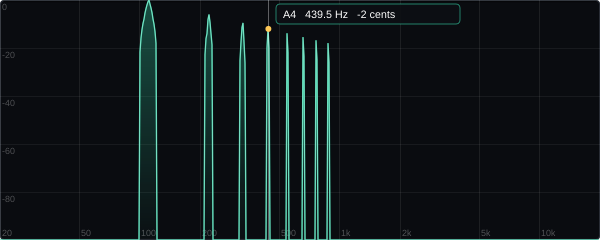
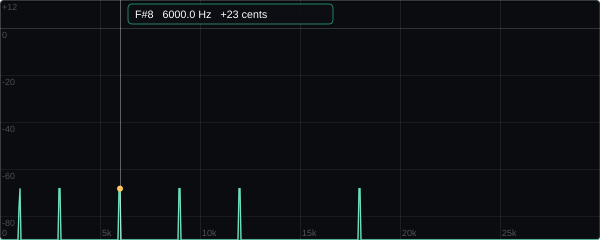
spectrum: linear 0-30 kHz axis and +12 dB (dBFS) top
- dB scale now uses a fixed 0 dBFS reference (= fftSize/4) with +12 dB headroom at
  the top; grid at +12/0/-20/-40/-60/-80 (0 dB brighter).
- Frequency axis is linear 0 Hz..30 kHz (log can't represent 0 Hz); grid every 5k.
- rebuildColumns/hover use the fixed reference; removed the running-peak norm.
- RenderUI hover demo updated for the linear axis.

diff --git a/Source/SpectrumAnalyzer.cpp b/Source/SpectrumAnalyzer.cpp
@@ -38,16 +38,14 @@ void SpectrumDisplay::resized()
 
 float SpectrumDisplay::freqToX (float hz) const noexcept
 {
-    const float lo = std::log (minFreq), hi = std::log (maxFreq);
-    const float f  = juce::jlimit (minFreq, maxFreq, hz);
-    return (float) getWidth() * (std::log (f) - lo) / (hi - lo);
+    const float f = juce::jlimit (minFreq, maxFreq, hz);
+    return (float) getWidth() * (f - minFreq) / (maxFreq - minFreq);
 }
 
 float SpectrumDisplay::xToFreq (float x) const noexcept
 {
-    const float lo = std::log (minFreq), hi = std::log (maxFreq);
-    const float t  = juce::jlimit (0.0f, 1.0f, x / (float) juce::jmax (1, getWidth()));
-    return std::exp (lo + t * (hi - lo));
+    const float t = juce::jlimit (0.0f, 1.0f, x / (float) juce::jmax (1, getWidth()));
+    return minFreq + t * (maxFreq - minFreq);
 }
 
 float SpectrumDisplay::dbToY (float db) const noexcept
@@ -71,25 +69,15 @@ void SpectrumDisplay::rebuildColumns()
     const int   numBins = (int) mags.size();
     const float binHz   = (float) (sampleRate / (2.0 * numBins));
 
-    // Running normalisation reference: instant attack, slow release, so the trace
-    // fills the view when there's signal and sinks to the floor on silence.
-    float gpeak = 1.0e-9f;
-    for (int k = 1; k < numBins; ++k)
-    {
-        const float f = k * binHz;
-        if (f >= minFreq && f <= maxFreq)
-            gpeak = juce::jmax (gpeak, mags[(size_t) k]);
-    }
-    refPeak = gpeak > refPeak ? gpeak : (refPeak * 0.9f + gpeak * 0.1f);
-    refPeak = juce::jmax (refPeak, 1.0e-9f);
+    // Fixed 0 dBFS reference: a full-scale sine peaks at ~fftSize/4 = numBins/2.
+    dbRef = juce::jmax (1.0f, (float) numBins * 0.5f);
 
-    const float logLo = std::log (minFreq);
-    const float logHi = std::log (maxFreq);
+    const float df = (maxFreq - minFreq) / (float) w;
 
     for (int x = 0; x < w; ++x)
     {
-        const float fLo = std::exp (logLo + (logHi - logLo) * ((float) x)       / (float) w);
-        const float fHi = std::exp (logLo + (logHi - logLo) * ((float) (x + 1)) / (float) w);
+        const float fLo = minFreq + df * (float) x;
+        const float fHi = minFreq + df * (float) (x + 1);
 
         const int kLo = (int) std::ceil  (fLo / binHz);
         const int kHi = (int) std::floor (fHi / binHz);
@@ -103,8 +91,8 @@ void SpectrumDisplay::rebuildColumns()
         }
         else
         {
-            // Column narrower than the bin spacing (low end): interpolate.
-            const float fc = std::sqrt (fLo * fHi);
+            // Column narrower than the bin spacing: interpolate between bins.
+            const float fc = 0.5f * (fLo + fHi);
             const float bf = fc / binHz;
             int   k0 = juce::jlimit (1, numBins - 2, (int) bf);
             const float fr = juce::jlimit (0.0f, 1.0f, bf - (float) k0);
@@ -131,27 +119,26 @@ void SpectrumDisplay::paint (juce::Graphics& g)
 
     drawScreen (g, bounds);
 
-    // ---- dB grid (horizontal) ---------------------------------------------------
+    // ---- dB grid (horizontal), dBFS with +12 at the top ------------------------
     g.setFont (10.0f);
-    for (int db = 0; db >= -80; db -= 20)
+    for (int db : { 12, 0, -20, -40, -60, -80 })
     {
         const float y = dbToY ((float) db);
-        g.setColour (juce::Colours::white.withAlpha (0.06f));
+        g.setColour (juce::Colours::white.withAlpha (db == 0 ? 0.16f : 0.06f)); // 0 dB brighter
         g.drawHorizontalLine ((int) y, 0.0f, w);
         g.setColour (juce::Colours::white.withAlpha (0.28f));
-        g.drawText (juce::String (db), 2, (int) y + 1, 26, 12, juce::Justification::left, false);
+        g.drawText ((db > 0 ? "+" : "") + juce::String (db), 2, (int) y + 1, 28, 12,
+                    juce::Justification::left, false);
     }
 
-    // ---- frequency grid (vertical) ----------------------------------------------
-    const float labelledFreqs[] = { 20, 50, 100, 200, 500, 1000, 2000, 5000, 10000, 20000 };
-    for (float f : labelledFreqs)
+    // ---- frequency grid (vertical), linear 0..30 kHz ---------------------------
+    for (int f = 0; f <= 30000; f += 5000)
     {
-        const float x = freqToX (f);
+        const float x = freqToX ((float) f);
         g.setColour (juce::Colours::white.withAlpha (0.08f));
         g.drawVerticalLine ((int) x, 0.0f, h);
         g.setColour (juce::Colours::white.withAlpha (0.30f));
-        const juce::String txt = f >= 1000.0f ? juce::String ((int) (f / 1000.0f)) + "k"
-                                              : juce::String ((int) f);
+        const juce::String txt = f == 0 ? "0" : juce::String (f / 1000) + "k";
         g.drawText (txt, (int) x + 2, (int) h - 13, 34, 12, juce::Justification::left, false);
     }
 
@@ -160,7 +147,7 @@ void SpectrumDisplay::paint (juce::Graphics& g)
 
     auto magToY = [this] (float linear)
     {
-        const float db = linear > 1.0e-9f ? 20.0f * std::log10 (linear / refPeak) : minDb;
+        const float db = linear > 1.0e-9f ? 20.0f * std::log10 (linear / dbRef) : minDb;
         return dbToY (db);
     };
 
@@ -261,7 +248,7 @@ void SpectrumDisplay::paintHoverReadout (juce::Graphics& g)
 
     if (onPeak)
     {
-        const float db = bestMag > 1.0e-9f ? 20.0f * std::log10 (bestMag / refPeak) : minDb;
+        const float db = bestMag > 1.0e-9f ? 20.0f * std::log10 (bestMag / dbRef) : minDb;
         const float y  = dbToY (db);
         g.setColour (juce::Colour (0xffffc857));
         g.fillEllipse (x - 3.0f, y - 3.0f, 6.0f, 6.0f);

diff --git a/Source/SpectrumAnalyzer.h b/Source/SpectrumAnalyzer.h
@@ -44,15 +44,16 @@ private:
 
     std::vector<float> colSmooth;          // per-pixel smoothed magnitude (linear)
     std::vector<float> colPeak;            // per-pixel peak-hold magnitude (linear)
-    float refPeak = 1.0e-6f;               // running normalisation reference
+    float dbRef = 2048.0f;                 // magnitude of a 0 dBFS tone (= fftSize/4)
 
     int  hoverX    = -1;                    // mouse x while hovering (-1 = none)
     bool hovering  = false;
 
-    static constexpr float minFreq = 20.0f;
-    static constexpr float maxFreq = 20000.0f;
-    static constexpr float minDb   = -100.0f;
-    static constexpr float maxDb   =  0.0f;
+    // Linear frequency axis 0 Hz .. 30 kHz, dBFS scale with +12 dB of headroom.
+    static constexpr float minFreq = 0.0f;
+    static constexpr float maxFreq = 30000.0f;
+    static constexpr float minDb   = -90.0f;
+    static constexpr float maxDb   =  12.0f;
 
     JUCE_DECLARE_NON_COPYABLE_WITH_LEAK_DETECTOR (SpectrumDisplay)
 };

diff --git a/README.md b/README.md
@@ -68,12 +68,12 @@ KeyDetector/
   bins. Low notes are reinforced by their **harmonics** in well-resolved higher
   bins, which keeps octave-collapsed chroma robust.
 - **Spectrum display** resamples the magnitude spectrum into one column per pixel
-  on a log-frequency axis (interpolating at the low end, peak-aggregating at the
-  high end) with fast-attack / slow-release smoothing and a peak-hold trace, so
-  there is uniform detail across 20 Hz – 20 kHz. A **Freeze** button in the top-right
-  of the analyser holds the current trace (handy for inspecting it). **Hover** the
-  mouse over the spectrum to snap to the nearest peak and read its note (with
-  octave), frequency and cents:
+  with fast-attack / slow-release smoothing and a peak-hold trace. The axis is a
+  **linear 0 Hz – 30 kHz** frequency scale and a **dBFS** amplitude scale with
+  **+12 dB** of headroom at the top (0 dB is a calibrated full-scale reference; a
+  0 dBFS sine peaks on the 0 dB line). Content above the sample rate's Nyquist
+  (e.g. 24 kHz @ 48 kHz) is naturally blank. **Hover** the mouse over the spectrum
+  to snap to the nearest peak and read its note (with octave), frequency and cents:
 
   ![Spectrum hover](docs/hover.png)
 - **Peak-based chroma (Harmonic Pitch-Class Profile).** Instead of dumping every
